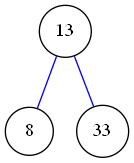
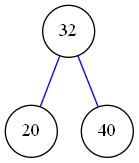
AVL Tree finalizado

diff --git a/AVL/AVL_Tree.py b/AVL/AVL_Tree.py
@@ -186,16 +186,32 @@ def main():
     os.mkdir("Graficos")
     myTree = AVLTree()
     root = None
-    nums = [33, 13, 8, 40, 35, 4, 6, 21]
+    #nums = [33, 13, 8, 40, 35, 4, 6, 21]
+    nums = [40, 20, 32, 45, 50, 25, 35, 55, 28, 30, 31, 33, 60, 65, 5, 10, 15]
     i = 1
     for num in nums:
         root = myTree.insert_node(root, num)
         graph = pydot.Dot("AVL_Tree", graph_type="graph", bgcolor="white")
         graph = myTree.preOrderGraph(root, graph)
         graph.write_png("Graficos/AVL_Tree_" + str(i) + ".png")
-        print "Grafico ", i, ", revisar archivo generado..."
+        print "Grafico", i, ", insertando", num, ", revisar archivo generado..."
         i = i + 1
-
+    nums = [35, 25, 21, 10]
+    for num in nums:
+        root = myTree.delete_node(root, num)
+        graph = pydot.Dot("AVL_Tree", graph_type="graph", bgcolor="white")
+        graph = myTree.preOrderGraph(root, graph)
+        graph.write_png("Graficos/AVL_Tree_" + str(i) + ".png")
+        print "Grafico ", i, ", borrando", num,  ", revisar archivo generado..."
+        i = i + 1
+    
+    print "Minimo:", myTree.getMinValueNode(root).key
+    print "Maximo:", myTree.getMaxValueNode(root).key
+    nums = [15, 35, 40]
+    for num in nums:
+        print "Buscando: ", num,
+        print ", se encontro en arbol" if not myTree.searchValueNode(root, num) is None else ", no se encontro en arbol"
+    '''
     myTree.printHelper(root, "", True)
     key = 13
     root = myTree.delete_node(root, key)
@@ -218,5 +234,6 @@ def main():
     graph = myTree.preOrderGraph(root, graph)
     graph.write_png("Graficos/AVL_Tree_" + str(i) +".png")
     print "Grafico final, revisar archivo generado..."
+    '''
 
 main()
